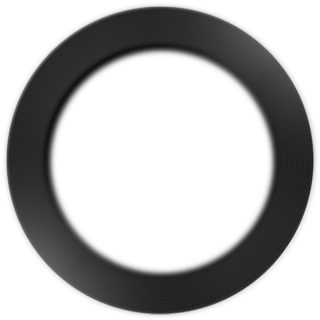
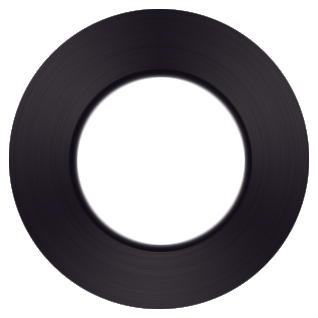
更换了黑胶唱片，新增userconfig，还没写完

Changed region(s): [[0.0, 0.0, 0.9906, 0.9906], [0.7925, 0.7925, 0.8774, 0.8774]]

diff --git a/src/Player/userconfig.cpp b/src/Player/userconfig.cpp
@@ -1,0 +1,121 @@
+#include "userconfig.h"
+#include "commondefine.h"
+#include "../Utils/utils.h"
+#include <QDir>
+#include <QFile>
+#include <QTextStream>
+#include <QDateTime>
+#include <QSqlQuery>
+#include <QSqlRecord>
+#include <QDebug>
+
+#define USER_CONFIG_FILE_NAME   "userconfig.db"
+#define TPF_TABLE               "tpf_config"
+#define TPF_ID                  "id"
+#define TPF_PATH                "tpf"
+#define TPF_FIXED_HEIGHT        "fixedHeight"
+#define TPF_ADJUSTED_SPEED      "adjustSpeed"
+#define TPF_LASTACCESS          "lastAccess"
+
+#define TABLE_CHECK(expr) if (!(expr)) return false
+
+UserConfig::UserConfig()
+{
+
+}
+
+UserConfig *UserConfig::instance()
+{
+    static UserConfig cfg;
+    return &cfg;
+}
+
+bool UserConfig::save()
+{
+    QString filePath = getSavePath();
+    if (!QFile::exists(filePath))
+        return false;
+
+    QSqlDatabase db = QSqlDatabase::addDatabase("QSQLITE");
+    db.setDatabaseName(filePath);
+    if (!db.open())
+    {
+        qDebug() << "Cannot open database: " << filePath;
+        return false;
+    }
+
+    //tpf config
+    createTpfConfigTableIfNotExists();
+
+    return true;
+}
+
+bool UserConfig::open()
+{
+    QString filePath = getSavePath();
+    if (!QFile::exists(filePath))
+        return false;
+
+    QSqlDatabase db = QSqlDatabase::addDatabase("QSQLITE");
+    db.setDatabaseName(filePath);
+    if (!db.open())
+    {
+        qDebug() << "Cannot open database: " << filePath;
+        return false;
+    }
+
+    //tpf config
+    createTpfConfigTableIfNotExists();
+    return true;
+}
+
+int UserConfig::adjustTpfBpm(QString tpf, int bpm)
+{
+    return bpm;
+}
+
+int UserConfig::getTpfAdjustedBpm(QString tpf)
+{
+    if (!m_db.isOpen())
+        return 0;
+
+    QSqlQuery query(m_db);
+    QString sql("select " TPF_ADJUSTED_SPEED " from " TPF_TABLE " where " TPF_PATH " = ");
+    sql.append(tpf);
+    sql.append(';');
+
+    if (query.exec(sql))
+    {
+        return query.record().value(TPF_ADJUSTED_SPEED).toInt();
+    }
+
+    return 0;
+}
+
+QString UserConfig::getSavePath()
+{
+    return QDir::homePath() + PROJ_PATH_ROOT + "/" + USER_CONFIG_FILE_NAME;
+}
+
+bool UserConfig::createTpfConfigTableIfNotExists()
+{
+    QString sql("create table " TPF_TABLE "("
+                  TPF_ID " INTEGER primary key,"
+                  TPF_PATH " TEXT,"
+                  TPF_FIXED_HEIGHT " INTEGER,"
+                  TPF_ADJUSTED_SPEED " INTEGER,"
+                  TPF_LASTACCESS " INTEGER);");
+    TABLE_CHECK(isTableExists(TPF_TABLE));
+
+    return true;
+}
+
+bool UserConfig::isTableExists(QString tableName)
+{
+    QSqlQuery query(m_db);
+    if (query.exec("select * from sqlite_master where name = \"" + tableName + "\""))
+    {
+        return query.record().count() > 0;
+    }
+    return false;
+}

diff --git a/src/Player/painthandler.cpp b/src/Player/painthandler.cpp
@@ -127,13 +127,13 @@ void IPaintHandler::paintCover(QPainter *painter, QRect rc)
         pcd.begin(&cd);
         pcd.setRenderHints(QPainter::Antialiasing|QPainter::SmoothPixmapTransform);
         QPainterPath pp1, pp2;
-        pp1.addEllipse(QPointF(160.5,160.5),114,114);
+        pp1.addEllipse(QPointF(160.5,160.5),86,86);
         //pp2.addEllipse(QPoint(160,160),40,40);
         pcd.setClipPath(pp1);
         //pcd.setOpacity(0.8);
         if (!imgCover.isNull())
         {
-            pcd.drawImage(cd.rect(), *imgCover);
+            pcd.drawImage(pp1.boundingRect(), *imgCover);
         }
         pcd.end();
     }
@@ -485,11 +485,24 @@ void QVerticalPaintHandler::paintInfo(QPainter *painter, QRect rc)
 
     painter->save();
     painter->setRenderHint(QPainter::TextAntialiasing);
+
+    static const QFont f1("", 16, QFont::Bold);
+    static const QFont f2("", 20, QFont::Bold);
+    static const QFont f3("", 24, QFont::Bold);
+    static const QPen pen(QColor(0xFF,0xFF,0xFF));
+    static const int textPadding = 5;
+    //先显示歌曲名字
+    QRect rcName=rc;
+    rcName.setHeight(34);
+    painter->setFont(f3);
+    painter->setPen(pen);
+    painter->drawText(rcName, Qt::AlignCenter|Qt::AlignVCenter, proj->getMusicTitle());
+
+    rc.setTop(rcName.bottom() + textPadding);
     //cover下面区域切成左右两边
     //左边标题，底部+右对齐
     //右边值，底部+左对齐
-    const int infoHeight = 36;
-    const int textPadding = 5;
+    const int infoHeight = 28;
     QRect rcL(rc);
     rcL.setWidth(rc.width()/2 - textPadding);
     rcL.setHeight(infoHeight);
@@ -497,9 +510,6 @@ void QVerticalPaintHandler::paintInfo(QPainter *painter, QRect rc)
     rcR.setLeft(rc.left()+rc.width()/2 + textPadding);
     rcR.setHeight(infoHeight);
 
-    static const QFont f1("", 16, QFont::Bold);
-    static const QFont f2("", 26, QFont::Bold);
-    static const QPen pen(QColor(0xFF,0xFF,0xFF));
     QString str;
 
     struct InfoMap

diff --git a/src/Player/userconfig.h b/src/Player/userconfig.h
@@ -1,0 +1,43 @@
+#ifndef USERCONFIG_H
+#define USERCONFIG_H
+
+#include <QObject>
+#include <map>
+#include <QSqlDatabase>
+
+//用户对某个tpf做出的自定义配置
+struct UserTpfConfig
+{
+    QString tpf;
+    int fixedHeight = 0;    //播放时tabline的高度，0=自动计算
+    int adjustedBpm = 0;    //速度调整
+    qint64 lastAccess = 0;  //最后访问时间
+};
+typedef std::map<QString, UserTpfConfig> UserTpfConfigMap;
+
+class UserConfig : public QObject
+{
+    Q_OBJECT
+protected:
+    UserConfig();
+    UserConfig(UserConfig&);
+public:
+    static UserConfig *instance();
+
+    bool save();
+    bool open();
+
+
+    //通过调整节拍器的每分钟节拍数来调整整首歌的速度
+    int adjustTpfBpm(QString tpf, int bpm);
+    int getTpfAdjustedBpm(QString tpf);
+
+protected:
+    QString getSavePath();
+    bool createTpfConfigTableIfNotExists();
+    bool isTableExists(QString tableName);
+protected:
+    QSqlDatabase m_db;
+};
+
+#endif // USERCONFIG_H

diff --git a/src/Player/welcomedialog.cpp b/src/Player/welcomedialog.cpp
@@ -3,6 +3,7 @@
 #include "qhistorytabledelegate.h"
 #include "../Project/tabproject.h"
 #include "mainwindow.h"
+#include "resourceloader.h"
 
 #include <QtWidgets>
 
@@ -14,7 +15,7 @@ WelcomeDialog::WelcomeDialog(QWidget *parent) :
     setWindowIcon(QIcon(":/image/resource/logo.ico"));
 
     this->setWindowFlag(Qt::FramelessWindowHint);
-    //this->setAttribute(Qt::WA_TranslucentBackground);
+    this->setAttribute(Qt::WA_TranslucentBackground);
 
     m_pDelegate = new QHistoryTableDelegate(this);
     ui->tableView->setModel(TAB_INST->getHistoryModel());
@@ -66,6 +67,17 @@ void WelcomeDialog::mouseReleaseEvent(QMouseEvent *event)
     {
         event->accept();
         m_dragging=false;
+    }
+}
+
+void WelcomeDialog::paintEvent(QPaintEvent *event)
+{
+    Q_UNUSED(event);
+    QImagePtr img = g_resLoader.getImage(RID_IMG_WELCOME_BG);
+    if (img)
+    {
+        QPainter p(this);
+        p.drawImage(rect(), *img, img->rect());
     }
 }
 

diff --git a/src/Player/qtablineglwidget.cpp b/src/Player/qtablineglwidget.cpp
@@ -172,6 +172,7 @@ void QTabLineGLWidget::animatePlay()
     qint64 iElapsed = m_timer.elapsed();
     if (m_iTimeCurrent == m_iTimeTotal || iElapsed >= m_iTimeTotal)
     {
+        qDebug() << "animate elapsed: " << m_iTimeCurrent << "/" << m_iTimeTotal << " " << iElapsed;
         setPlayingTabLine(m_iTabLine + 1, true);
     }
     else if (iElapsed + m_pTimerPlay->interval() > m_iTimeTotal)
@@ -186,7 +187,6 @@ void QTabLineGLWidget::animatePlay()
     }
 
     repaint();
-    //qDebug() << "animateMask: " << m_iMaskTick << "/" << m_iMaskTotal;
 }
 
 void QTabLineGLWidget::slotOnThreadFinished()

diff --git a/src/Utils/qstringutil.cpp b/src/Utils/qstringutil.cpp
@@ -24,3 +24,15 @@ QString QStringUtil::double2MMSS(double t)
     int i = int(t);
     return QString::asprintf("%02d:%02d", i/60, i%60);
 }
+
+QString QStringUtil::int64ToString(qint64 n)
+{
+    return QString::asprintf("%lld", n);
+}
+
+qint64 QStringUtil::string2Int64(QString str)
+{
+    qint64 n = 0;
+    sscanf_s(str.toLocal8Bit().data(), "%lld", &n);
+    return n;
+}

diff --git a/src/Project/projecthistory.cpp b/src/Project/projecthistory.cpp
@@ -25,7 +25,7 @@ bool ProjectHistory::add(QString projFile, QString uuid, int adjustedBeat)
 {
     for (auto it = m_history.begin(); it != m_history.end();)
     {
-        if (it->uuid.compare(uuid, Qt::CaseInsensitive) == 0)
+        if (it->filePath.compare(projFile, Qt::CaseInsensitive) == 0)
             it = m_history.erase(it);
         else
             it++;

diff --git a/src/Player/welcomedialog.h b/src/Player/welcomedialog.h
@@ -22,6 +22,7 @@ protected:
     void mousePressEvent(QMouseEvent *event) override;
     void mouseMoveEvent(QMouseEvent *event) override;
     void mouseReleaseEvent(QMouseEvent *event) override;
+    void paintEvent(QPaintEvent *event) override;
 
 private slots:
     void on_pushButtonOpen_clicked();

diff --git a/src/Utils/qstringutil.h b/src/Utils/qstringutil.h
@@ -15,6 +15,9 @@ public:
     //double的秒转成分:秒的格式
     //e.g. 62.0 => 01:02
     static QString double2MMSS(double t);
+    //
+    static QString int64ToString(qint64 n);
+    static qint64  string2Int64(QString str);
 };
 
 #endif // QSTRINGUTIL_H
